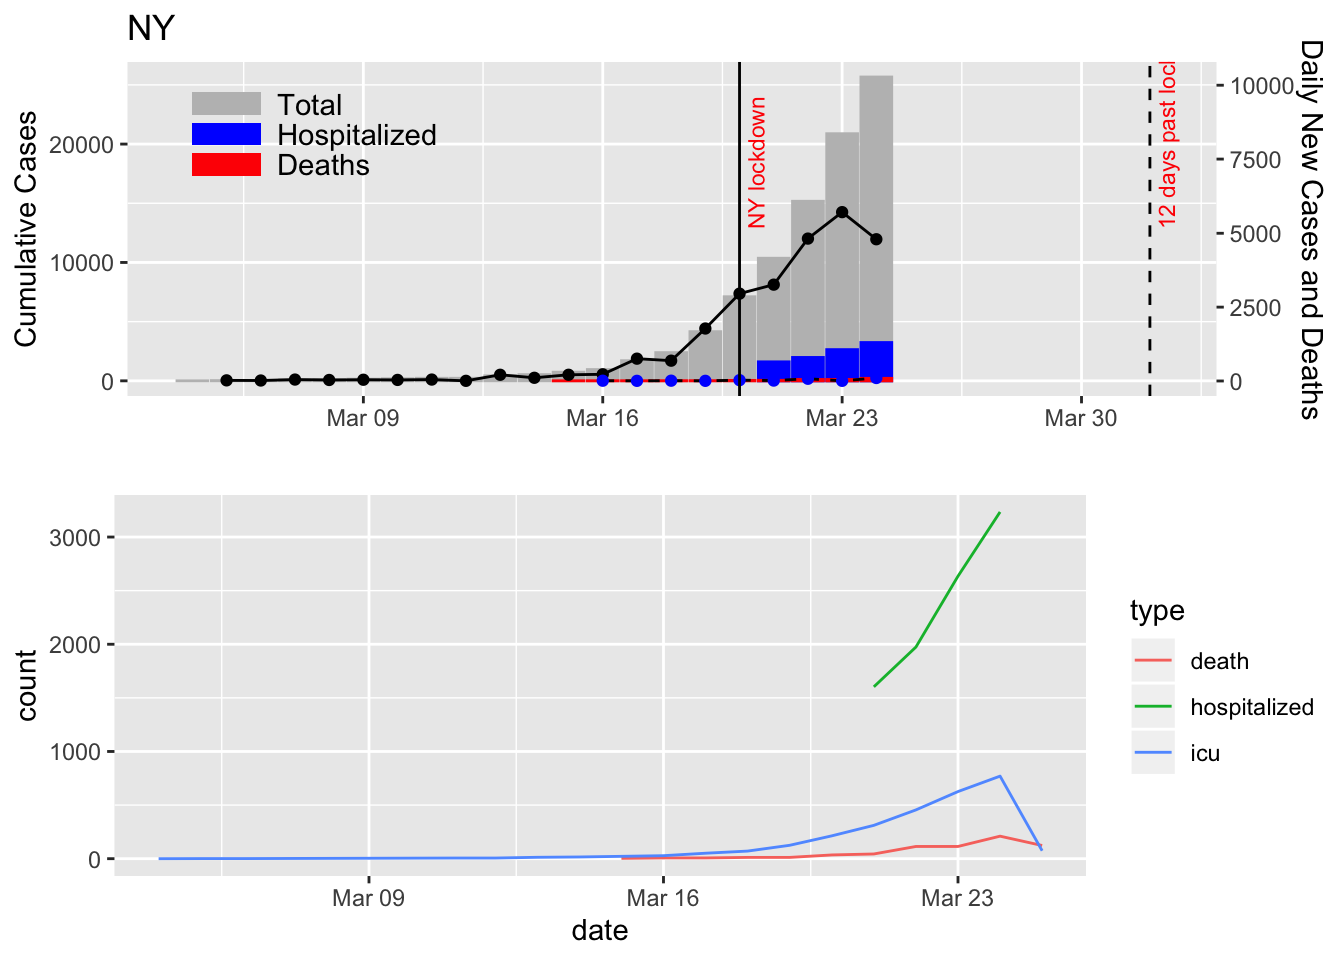
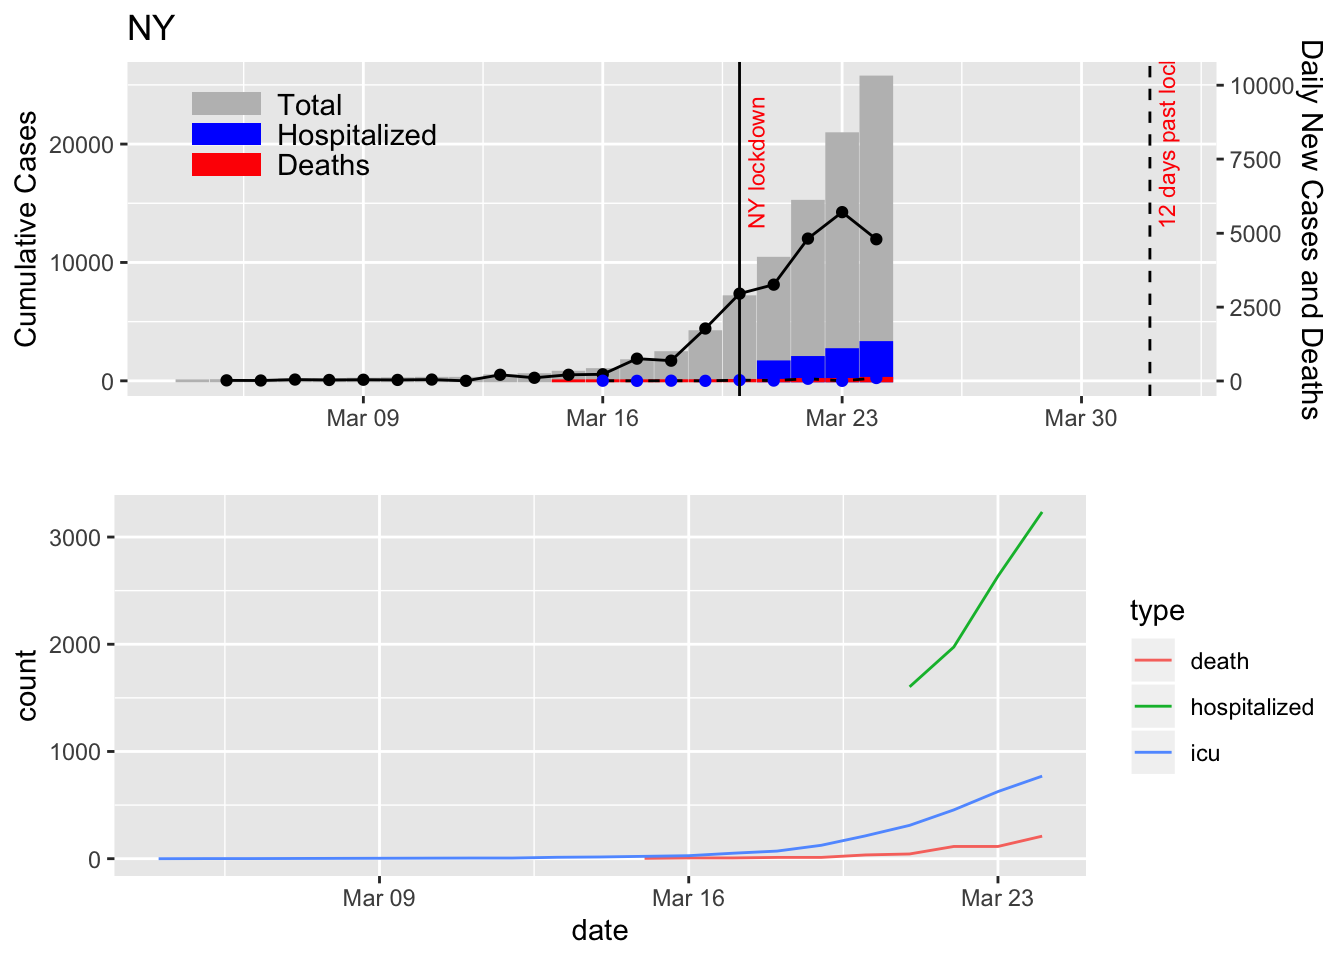
update webpage

Changed region(s): [[0.4688, 0.8125, 0.7812, 0.9688], [0.6562, 0.5312, 0.75, 0.7188], [0.25, 0.9062, 0.3125, 0.9688]]

diff --git a/docs/state_plots.html b/docs/state_plots.html
@@ -316,48 +316,36 @@ $(document).ready(function () {
 </div>
 
 
-<pre class="r"><code>library(CoV19)</code></pre>
 <div id="south" class="section level1">
 <h1>South</h1>
-<pre class="r"><code>plot2(states, c(&quot;FL&quot;,&quot;LA&quot;,&quot;GA&quot;,&quot;MS&quot;))</code></pre>
 <p><img src="state_plots_files/figure-html/unnamed-chunk-2-1.png" width="672" /></p>
-<pre class="r"><code>plot2(states, c(&quot;SC&quot;,&quot;NC&quot;,&quot;VA&quot;,&quot;WV&quot;))</code></pre>
 <p><img src="state_plots_files/figure-html/unnamed-chunk-3-1.png" width="672" /></p>
 </div>
 <div id="northeast" class="section level1">
 <h1>Northeast</h1>
-<pre class="r"><code>plot2(states, c(&quot;NY&quot;,&quot;NJ&quot;,&quot;PA&quot;,&quot;CT&quot;))</code></pre>
 <p><img src="state_plots_files/figure-html/unnamed-chunk-4-1.png" width="672" /></p>
-<pre class="r"><code>plot2(states, c(&quot;VT&quot;,&quot;ME&quot;,&quot;NH&quot;,&quot;MA&quot;))</code></pre>
 <p><img src="state_plots_files/figure-html/unnamed-chunk-5-1.png" width="672" /></p>
 </div>
 <div id="midwest" class="section level1">
 <h1>Midwest</h1>
-<pre class="r"><code>plot2(states, c(&quot;OH&quot;,&quot;IN&quot;,&quot;IL&quot;,&quot;MI&quot;))</code></pre>
 <p><img src="state_plots_files/figure-html/unnamed-chunk-6-1.png" width="672" /></p>
-<pre class="r"><code>plot2(states, c(&quot;WI&quot;,&quot;MN&quot;,&quot;IA&quot;,&quot;MO&quot;))</code></pre>
 <p><img src="state_plots_files/figure-html/unnamed-chunk-7-1.png" width="672" /></p>
-<pre class="r"><code>plot2(states, c(&quot;ND&quot;,&quot;SD&quot;,&quot;NE&quot;,&quot;KS&quot;))</code></pre>
 <p><img src="state_plots_files/figure-html/unnamed-chunk-8-1.png" width="672" /></p>
 </div>
 <div id="north-rockies" class="section level1">
 <h1>North Rockies</h1>
-<pre class="r"><code>plot2(states, c(&quot;ID&quot;,&quot;WY&quot;,&quot;MT&quot;))</code></pre>
 <p><img src="state_plots_files/figure-html/unnamed-chunk-9-1.png" width="672" /></p>
 </div>
 <div id="four-corners" class="section level1">
 <h1>Four Corners</h1>
-<pre class="r"><code>plot2(states, c(&quot;AZ&quot;,&quot;UT&quot;,&quot;CO&quot;,&quot;NM&quot;))</code></pre>
 <p><img src="state_plots_files/figure-html/unnamed-chunk-10-1.png" width="672" /></p>
 </div>
 <div id="texas-and-company" class="section level1">
 <h1>Texas and company</h1>
-<pre class="r"><code>plot2(states, c(&quot;TX&quot;,&quot;OK&quot;,&quot;AR&quot;,&quot;LA&quot;))</code></pre>
 <p><img src="state_plots_files/figure-html/unnamed-chunk-11-1.png" width="672" /></p>
 </div>
 <div id="west" class="section level1">
 <h1>West</h1>
-<pre class="r"><code>plot2(states, c(&quot;CA&quot;,&quot;OR&quot;,&quot;WA&quot;,&quot;NV&quot;))</code></pre>
 <p><img src="state_plots_files/figure-html/unnamed-chunk-12-1.png" width="672" /></p>
 </div>
 

diff --git a/docs/data.html b/docs/data.html
@@ -324,20 +324,20 @@ italy
 world</code></pre>
 <p>Here is an example from <code>states</code>:</p>
 <pre class="r"><code>head(states)</code></pre>
-<pre><code>##         date region positive negative pending hospitalized
-## 1 2020-03-24     AK       36      986      NA            0
-## 2 2020-03-24     AL      215     2106      NA           NA
-## 3 2020-03-24     AR      218      947       0           22
-## 4 2020-03-24     AS        0       NA      NA           NA
-## 5 2020-03-24     AZ      357      313      22            8
-## 6 2020-03-24     CA     2102    13452   12100           NA
-##   death total.tests totalTestResults
-## 1    NA        1022             1022
-## 2     0        2321             2321
-## 3     0        1165             1165
-## 4     0           0                0
-## 5     5         692              670
-## 6    40       27654            15554</code></pre>
+<pre><code>##         date region positive negative pending hospitalized death
+## 1 2020-03-24     AK       36      986      NA            0    NA
+## 2 2020-03-24     AL      215     2106      NA           NA     0
+## 3 2020-03-24     AR      218      947       0           22     0
+## 4 2020-03-24     AS        0       NA      NA           NA     0
+## 5 2020-03-24     AZ      357      313      22            8     5
+## 6 2020-03-24     CA     2102    13452   12100           NA    40
+##   total.tests totalTestResults
+## 1        1022             1022
+## 2        2321             2321
+## 3        1165             1165
+## 4           0                0
+## 5         692              670
+## 6       27654            15554</code></pre>
 <div id="subsetting-data" class="section level1">
 <h1>Subsetting data</h1>
 <pre class="r"><code># Just WA

diff --git a/docs/ny_plot.html b/docs/ny_plot.html
@@ -316,25 +316,7 @@ $(document).ready(function () {
 </div>
 
 
-<pre class="r"><code>library(CoV19)</code></pre>
-<pre class="r"><code>x &lt;- subset(states, region==&quot;NY&quot;)
-x &lt;- rbind(x, data.frame(date=as.Date(&quot;2020-03-25&quot;), region=&quot;WA&quot;, positive=2469, negative=NA, pending=NA, hospitalized=NA, death=123, total.tests=NA, totalTestResults=NA))
-x$icu &lt;- as.integer(round(0.03*x$positive,0))
-p1 &lt;- my_plot(x, &quot;NY&quot;, &quot;2020-03-20&quot;)
-y &lt;- x %&gt;% pivot_longer(
-  cols = c(&quot;hospitalized&quot;, &quot;death&quot;, &quot;icu&quot;),
-  names_to = &quot;type&quot;,
-  values_to = &quot;count&quot;,
-  values_drop_na = FALSE)
-p2 &lt;- qplot(date, count, data=y, geom=&quot;line&quot;, color=type)
-grid.arrange(p1,p2, ncol=1)</code></pre>
 <p><img src="ny_plot_files/figure-html/ny_plot-1.png" width="672" /></p>
-<pre class="r"><code>x &lt;- world
-x[x$date==&quot;2020-02-12&quot;,&quot;positive&quot;]=NA
-x[x$date==&quot;2020-02-13&quot;,&quot;positive&quot;]=NA
-p &lt;- my_plot(x, &quot;Hubei China&quot;, &quot;2020-01-23&quot;)
-p</code></pre>
-<p><img src="ny_plot_files/figure-html/world_plot-1.png" width="672" /></p>
 
 
 

diff --git a/docs/walomb_plot.html b/docs/walomb_plot.html
@@ -316,18 +316,8 @@ $(document).ready(function () {
 </div>
 
 
-<pre class="r"><code>library(CoV19)</code></pre>
-<pre class="r"><code>my_plot(italy, &quot;Lombardia&quot;, &quot;2020-03-10&quot;)</code></pre>
 <p><img src="walomb_plot_files/figure-html/italy_plot-1.png" width="672" /></p>
-<pre class="r"><code>x &lt;- subset(states, region==&quot;WA&quot;)
-x &lt;- rbind(x, data.frame(date=as.Date(&quot;2020-03-25&quot;), region=&quot;WA&quot;, positive=2469, negative=NA, pending=NA, hospitalized=NA, death=123, total.tests=NA, totalTestResults=NA))
-my_plot(x, &quot;WA&quot;, &quot;2020-03-16&quot;)</code></pre>
 <p><img src="walomb_plot_files/figure-html/wa_plot-1.png" width="672" /></p>
-<pre class="r"><code>x &lt;- world
-x[x$date==&quot;2020-02-12&quot;,&quot;positive&quot;]=NA
-x[x$date==&quot;2020-02-13&quot;,&quot;positive&quot;]=NA
-p &lt;- my_plot(x, &quot;Hubei China&quot;, &quot;2020-01-23&quot;)
-p</code></pre>
 <p><img src="walomb_plot_files/figure-html/world_plot-1.png" width="672" /></p>
 
 

diff --git a/docs/epidemic_states.html b/docs/epidemic_states.html
@@ -316,12 +316,8 @@ $(document).ready(function () {
 </div>
 
 
-<pre class="r"><code>library(CoV19)
-plot2(states, c(&quot;NY&quot;, &quot;NJ&quot;))</code></pre>
 <p><img src="epidemic_states_files/figure-html/unnamed-chunk-1-1.png" width="672" /></p>
-<pre class="r"><code>plot2(states, c(&quot;WA&quot;, &quot;CA&quot;))</code></pre>
 <p><img src="epidemic_states_files/figure-html/unnamed-chunk-2-1.png" width="672" /></p>
-<pre class="r"><code>plot2(states, c(&quot;FL&quot;, &quot;CO&quot;))</code></pre>
 <p><img src="epidemic_states_files/figure-html/unnamed-chunk-3-1.png" width="672" /></p>
 
 
